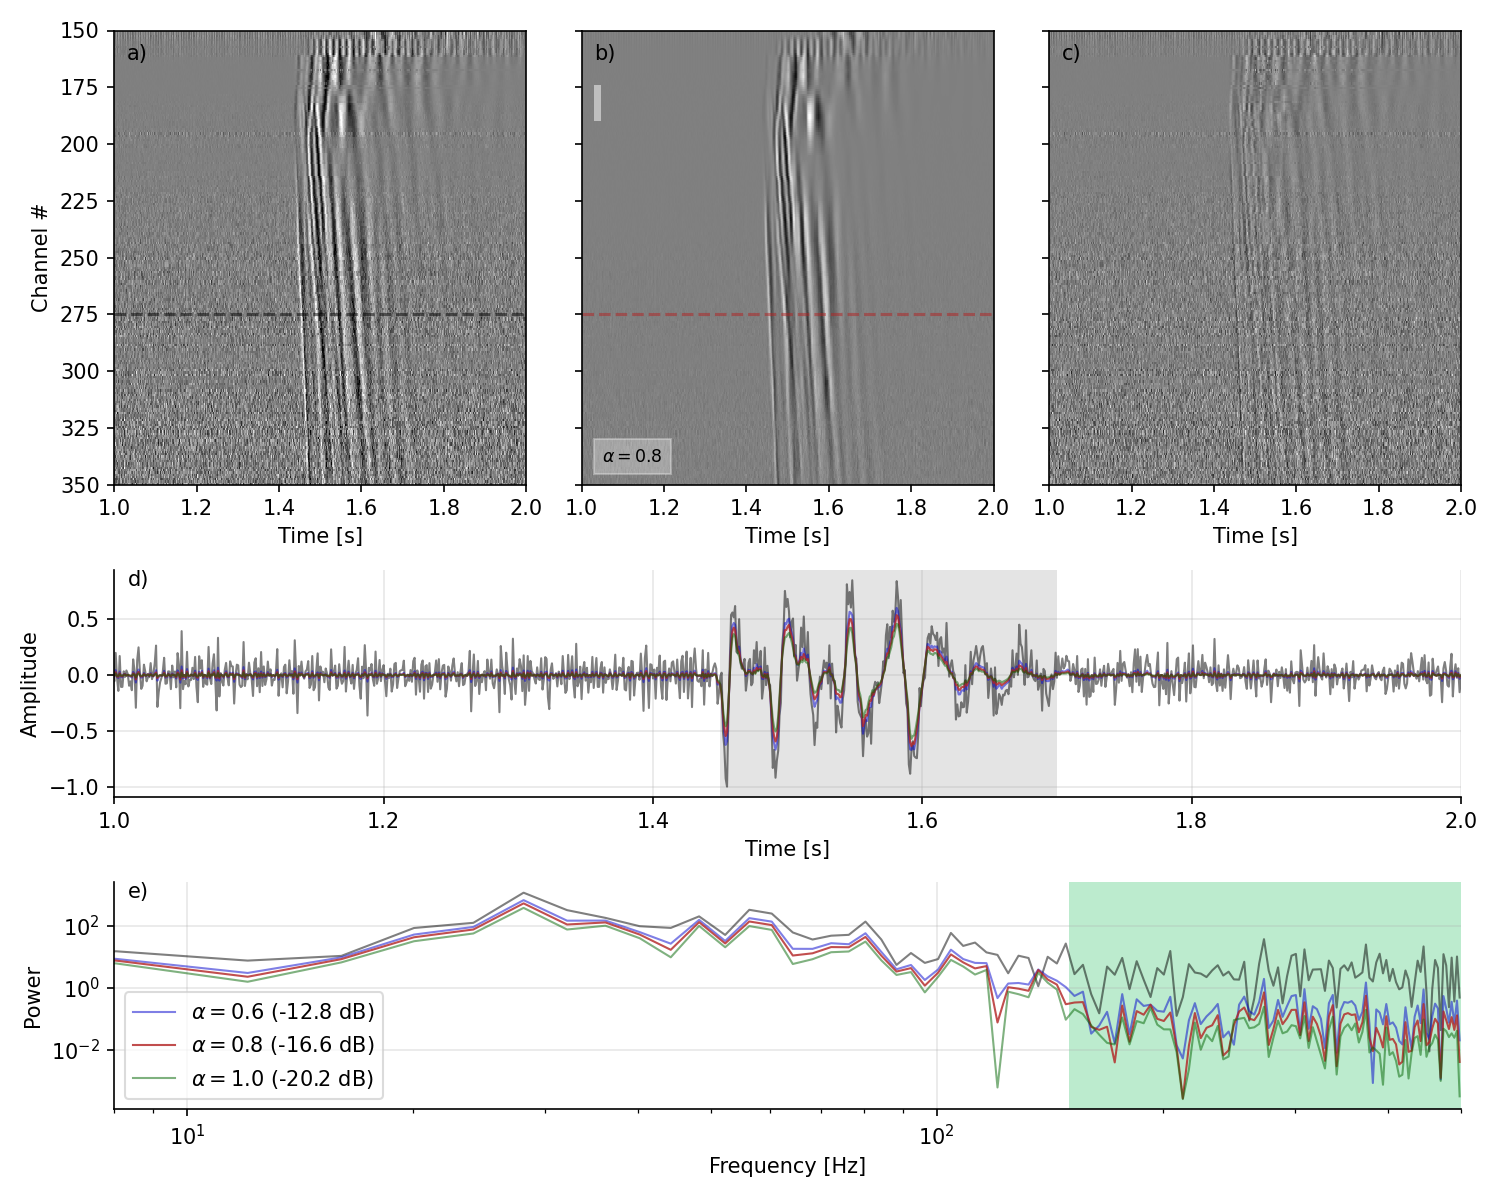
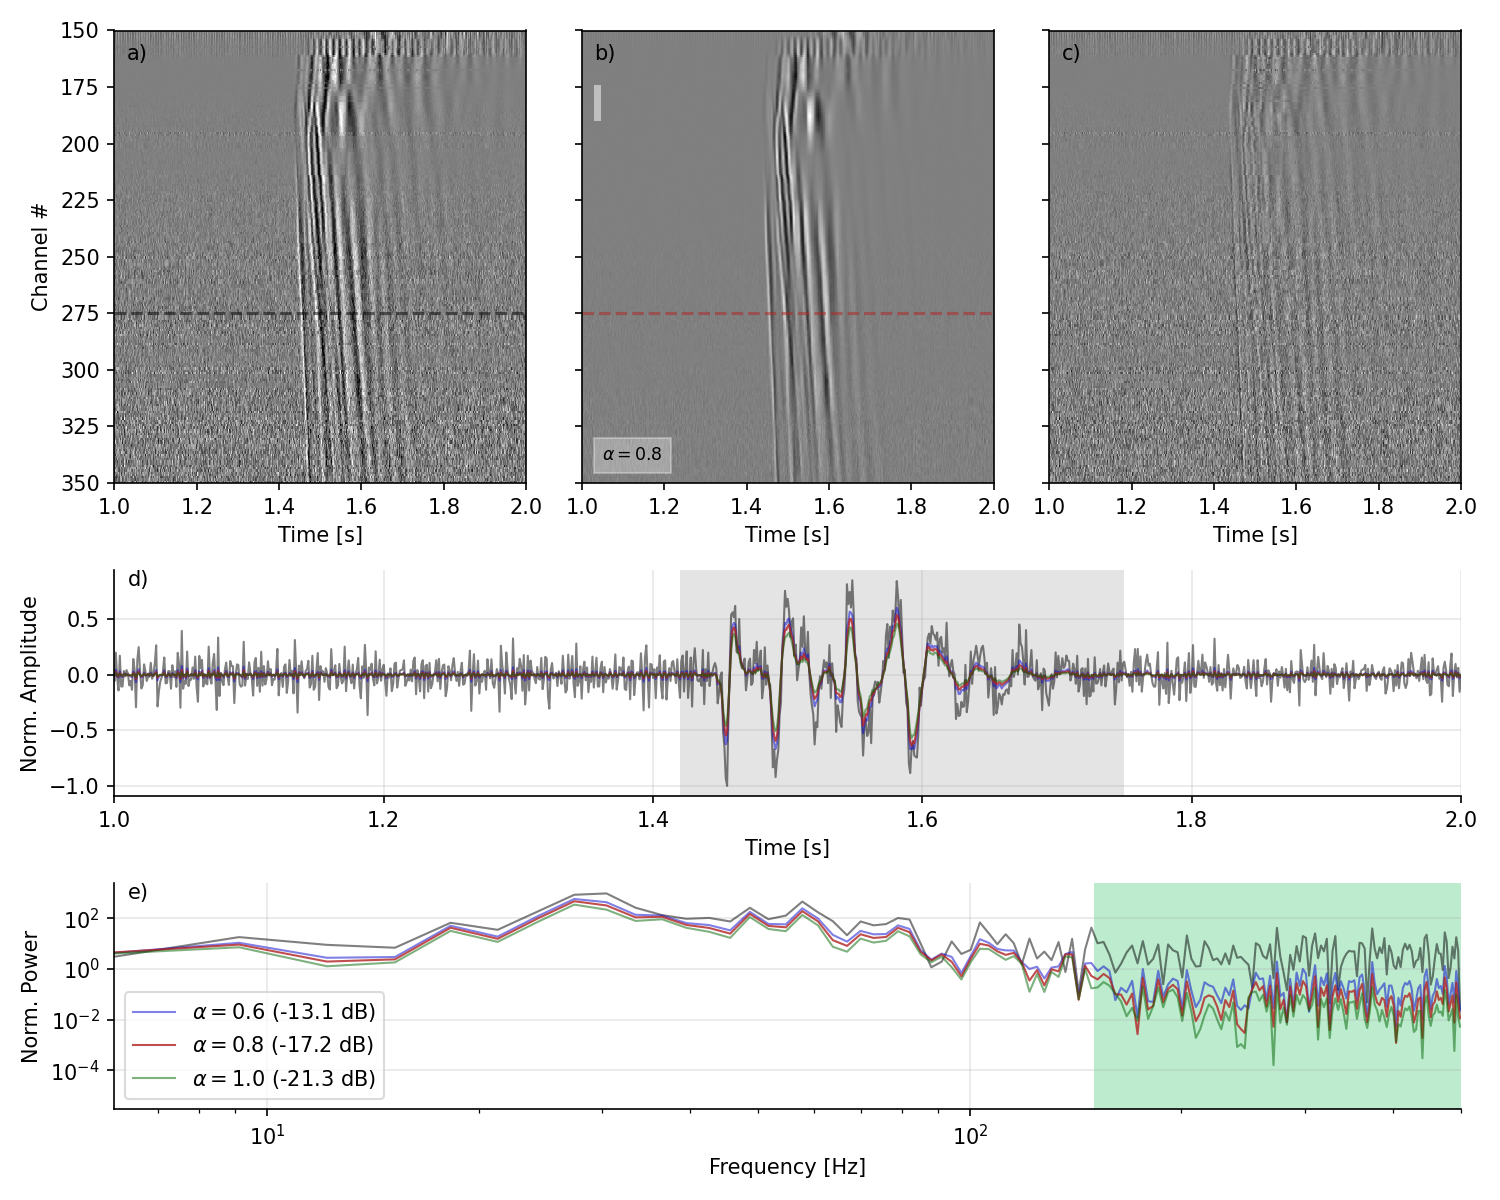
finalizing figures

diff --git a/main_figure.py b/main_figure.py
@@ -137,7 +137,7 @@ def plot_goldstein_analysis(
     ax_trace.spines["right"].set_visible(False)
     ax_trace.set_xlabel("Time [s]")
     ax_trace.set_ylabel(
-        ("Norm. " if default_filter.normalize_power else "") + "Amplitude"
+        ("Norm. " if not default_filter.normalize_power else "") + "Amplitude"
     )
     ax_trace.plot(time, trace_raw, alpha=0.5, c="k", lw=1.0)[0]
     ax_trace.axvspan(*signal_window, fc="#E4E4E4")
@@ -147,7 +147,9 @@ def plot_goldstein_analysis(
     ax_spec.spines["top"].set_visible(False)
     ax_spec.spines["right"].set_visible(False)
     ax_spec.set_xlabel("Frequency [Hz]")
-    ax_spec.set_ylabel(("Norm. " if default_filter.normalize_power else "") + "Power")
+    ax_spec.set_ylabel(
+        ("Norm. " if not default_filter.normalize_power else "") + "Power"
+    )
     ax_spec.set_xlim(2.0 / signal_duration, sampling_rate / 2)
     ax_spec.axvspan(*noise_band, fc="#BCEBCE")
 
@@ -222,8 +224,7 @@ def plot_goldstein_analysis(
             alpha=filter.alpha,
             c=filter.color,
             lw=1.0,
-            label=f"$\\alpha={filter.exponent}$ ({noise_level_db:.1f} dB)"
-            + (", normalized" if filter.normalize_power else ""),
+            label=f"$\\alpha={filter.exponent}$ ({noise_level_db:.1f} dB)",
         )
 
     ax_spec.legend(loc="lower left", framealpha=0.7)
@@ -247,7 +248,7 @@ if True:
         time_extent=(1.0, 2.0),
         channel_extent=(150, 350),
         noise_band=(150, 500),
-        signal_window=(1.45, 1.75),
+        signal_window=(1.42, 1.75),
         show_plot=show_plot,
     )
 

diff --git a/window_size_comparison.py b/window_size_comparison.py
@@ -92,11 +92,12 @@ for iax, ax in enumerate(axes):
         ha="left",
         transform=ax.transAxes,
     )
-    ax.axvline(14.05, c="w", ls="--", lw="1.0")
+    # ax.axvline(14.05, c="w", ls="--", lw="1.0")
+    ax.plot([14.065, 13.996], [336, 660], c="w", ls="--", lw="1.0")
     if ax != axes[-1]:
         ax.set_xlabel(None)
 
 fig.tight_layout()
-fig.savefig("figures/rectangular-comparison.png")
+fig.savefig("figures/rectangular-comparison.png", dpi=150)
 
 plt.show()
